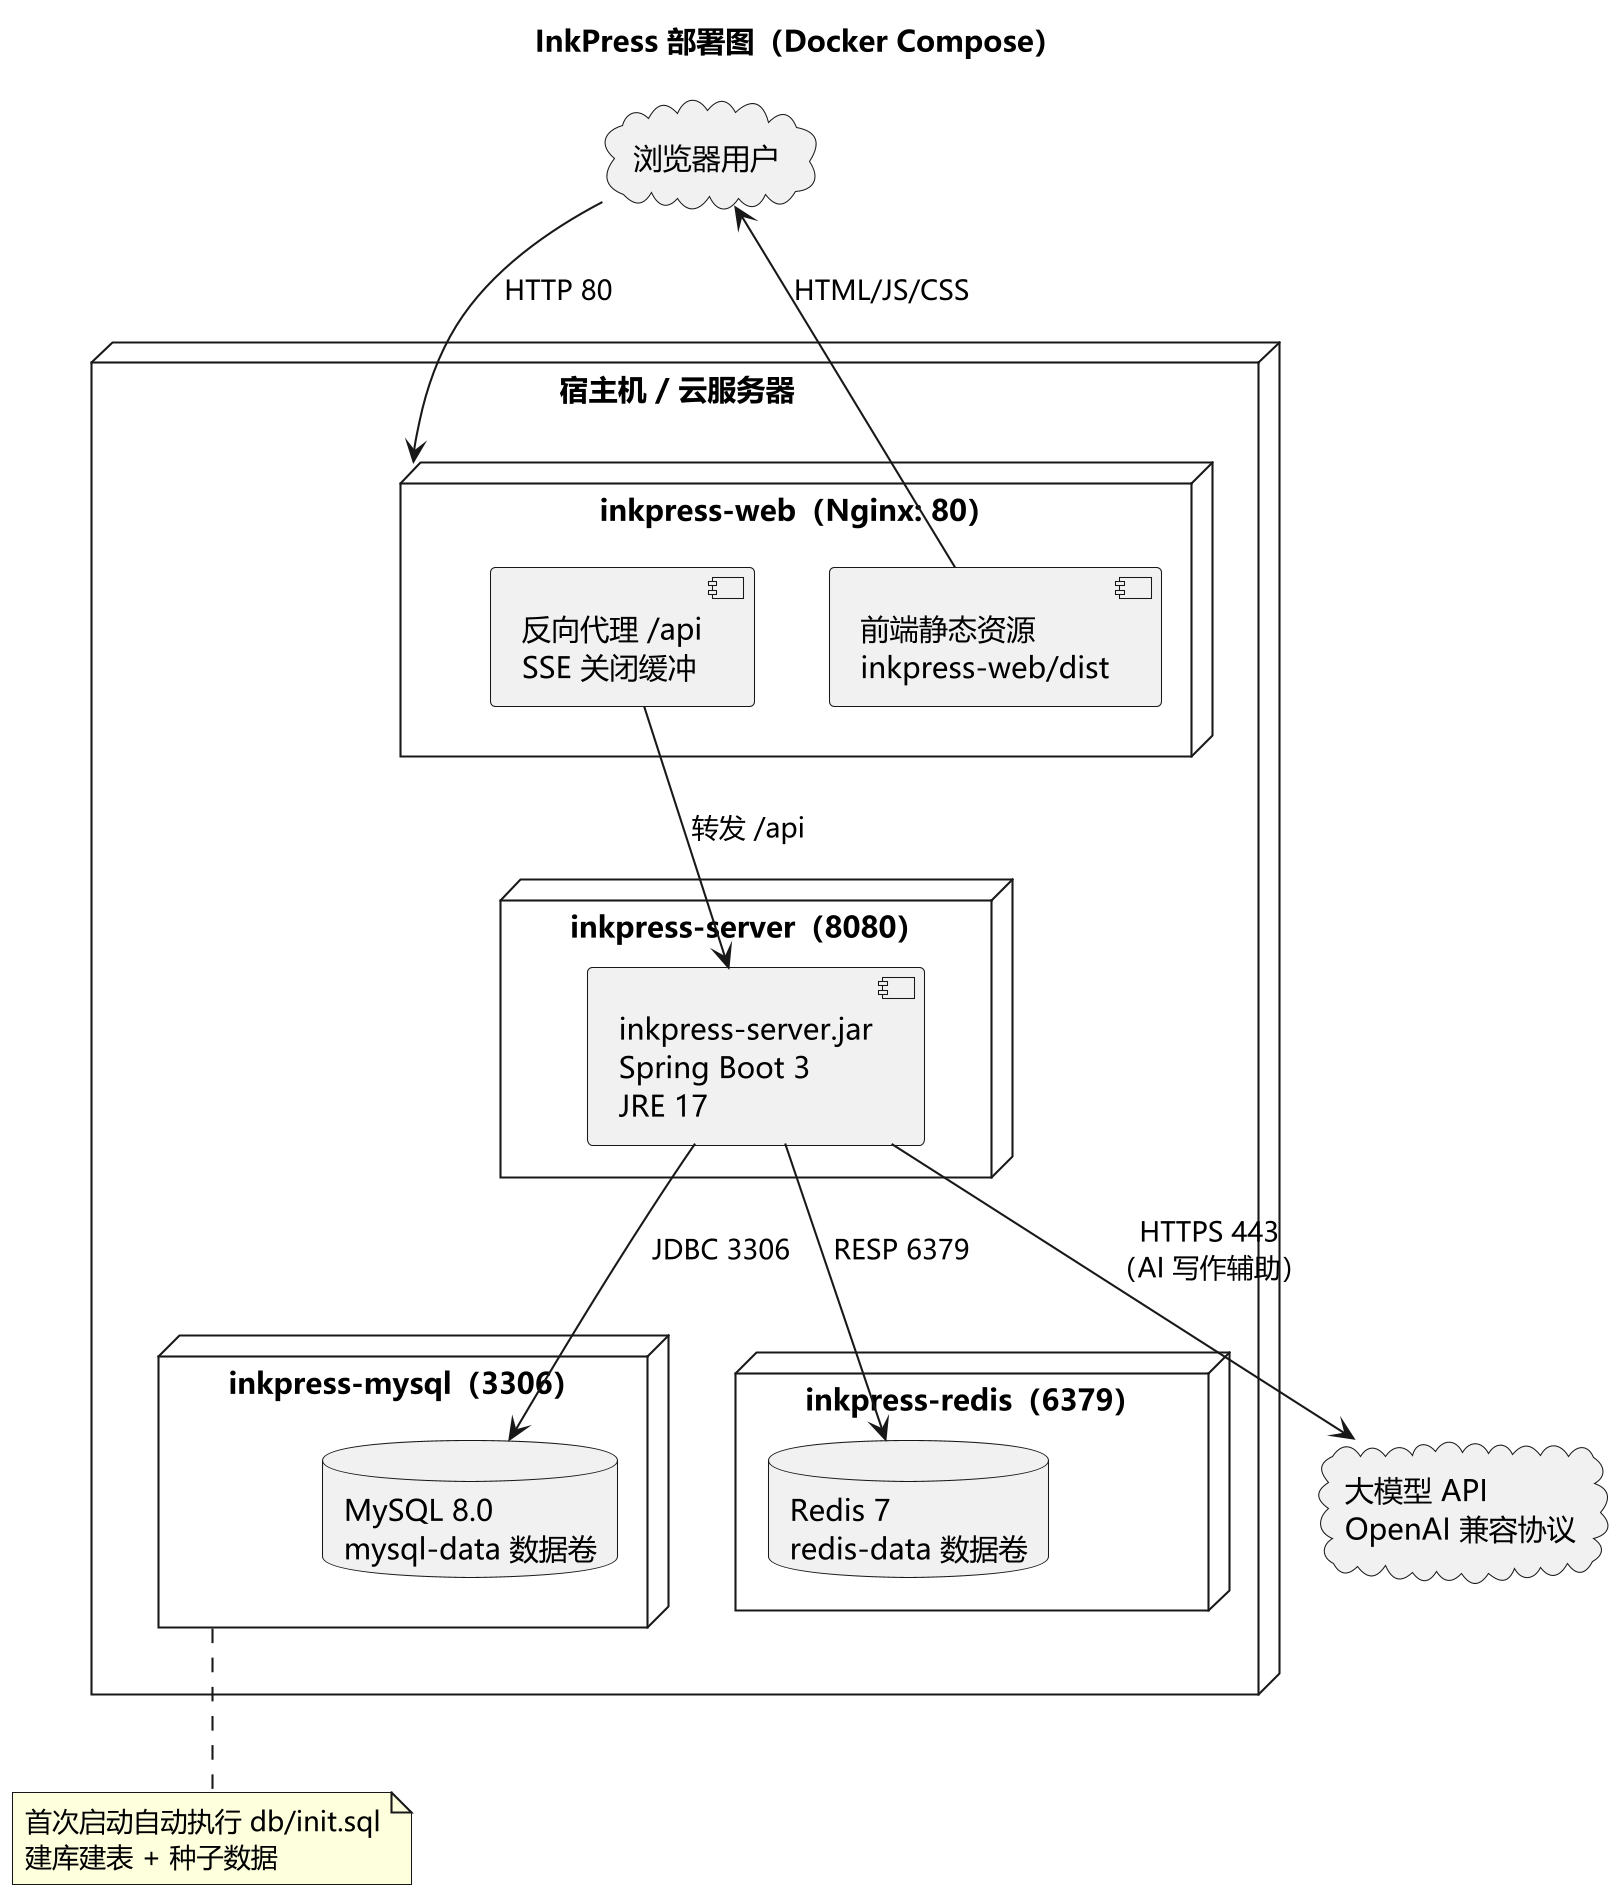
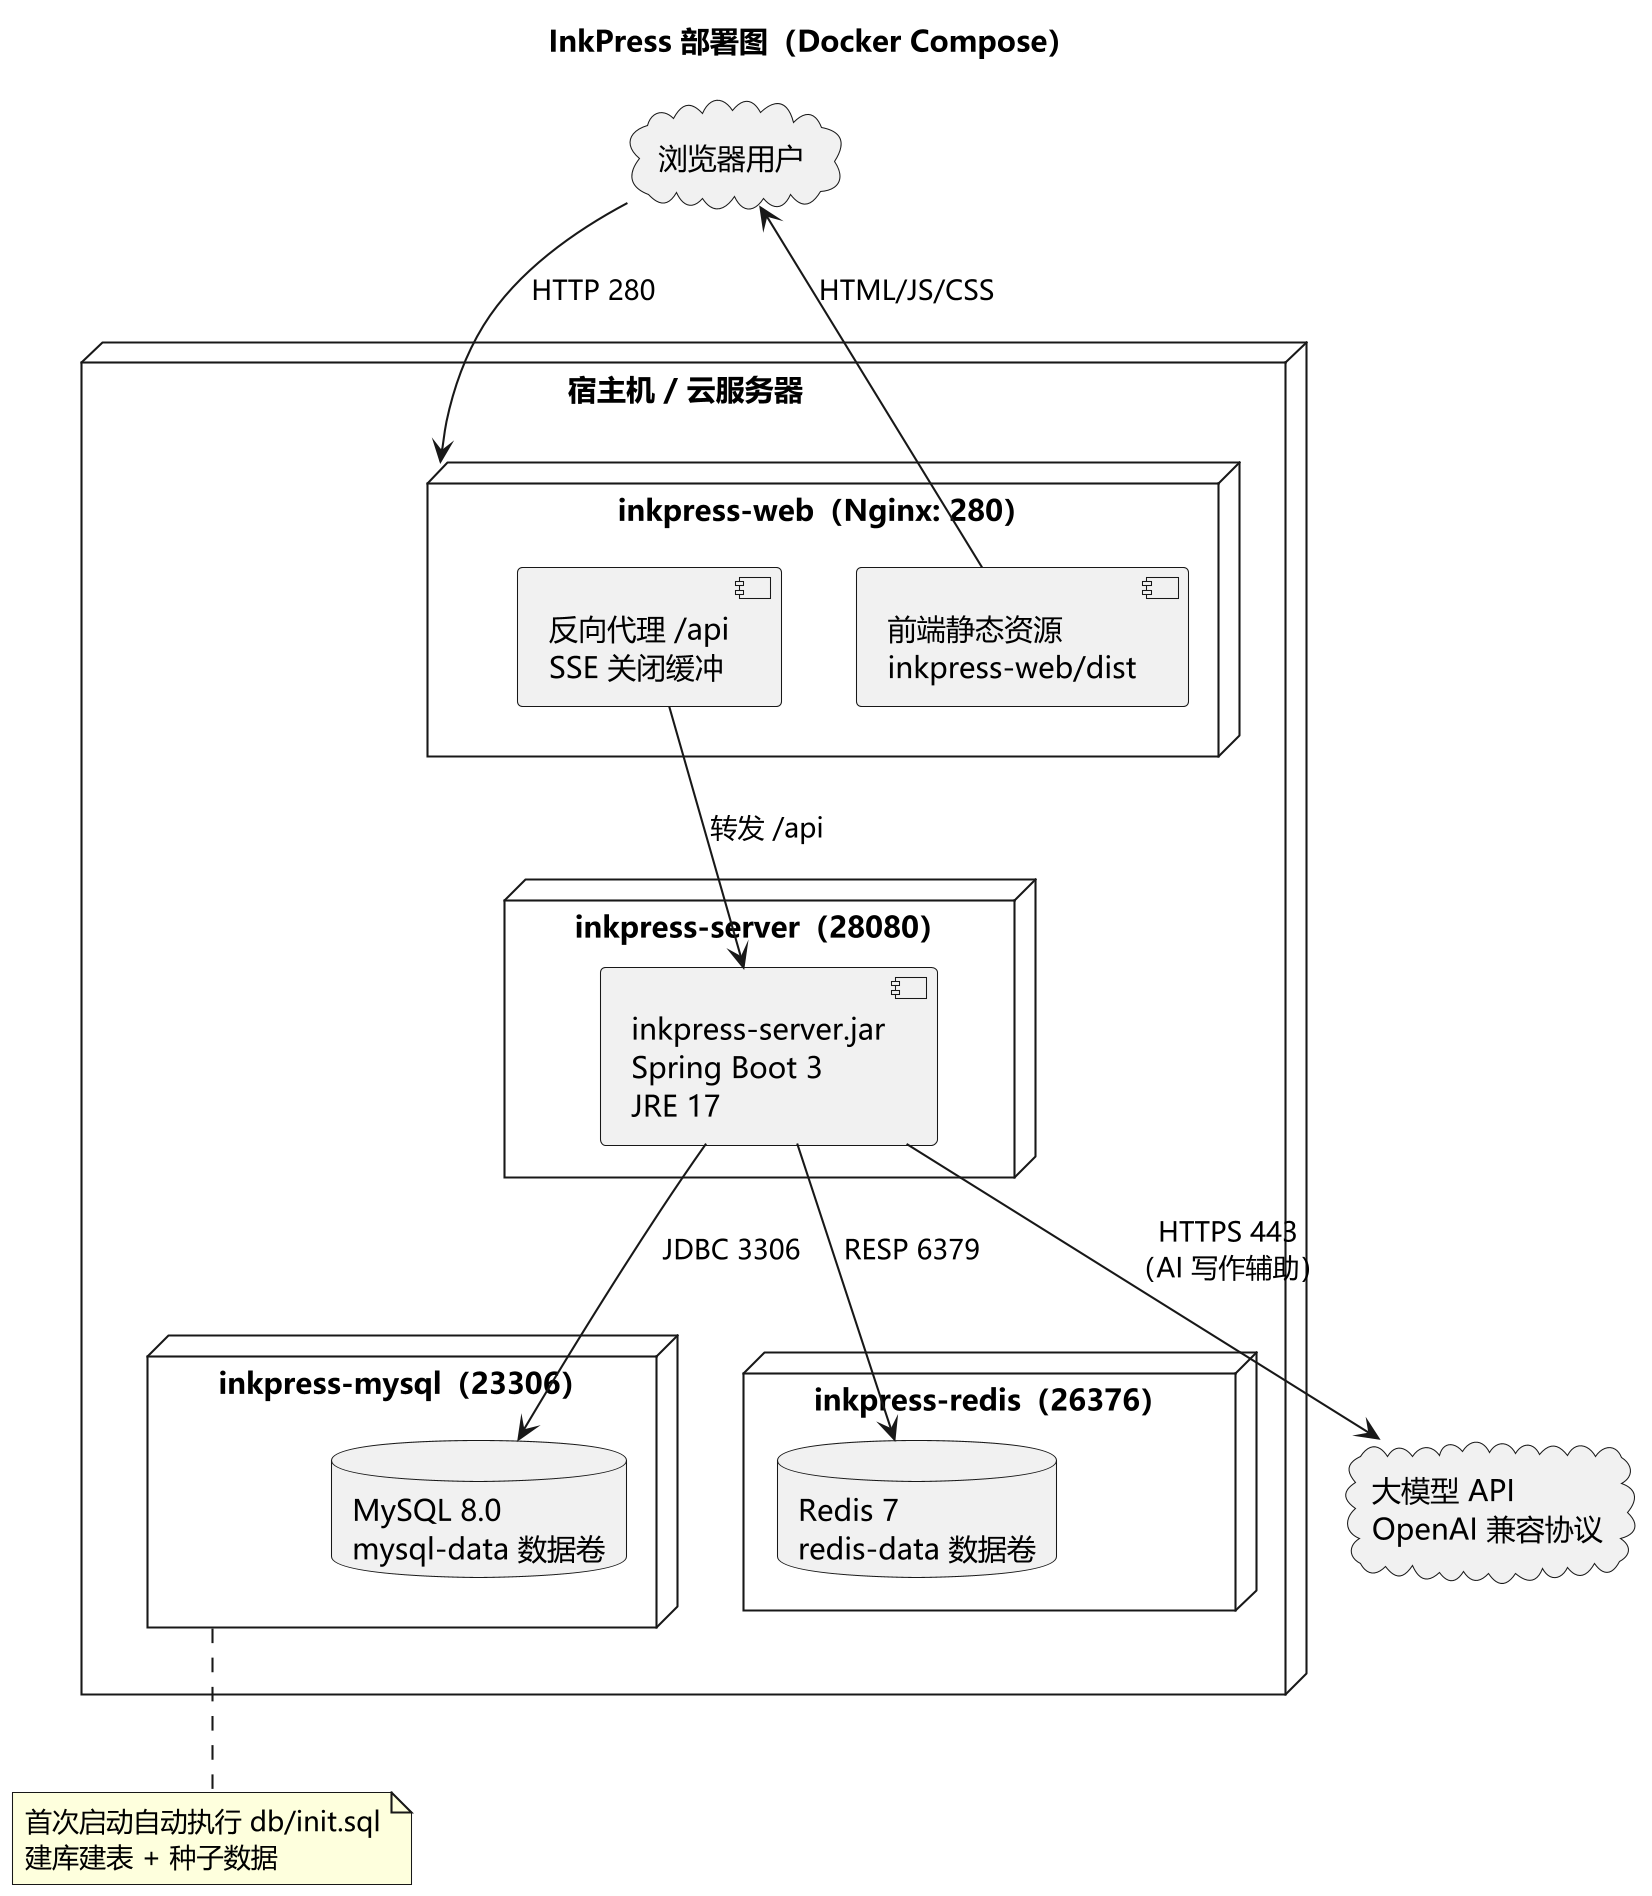
chore: 运行端口统一加前缀 2（8080→28080 等），文档与图纸同步

diff --git a/inkpress-web/vite.config.js b/inkpress-web/vite.config.js
@@ -10,10 +10,10 @@ export default defineConfig({
     }
   },
   server: {
-    port: 5173,
+    port: 25173,
     proxy: {
       '/api': {
-        target: 'http://localhost:8080',
+        target: 'http://localhost:28080',
         changeOrigin: true
       }
     }

diff --git a/docs/部署文档.md b/docs/部署文档.md
@@ -27,13 +27,13 @@ cd inkpress-server
 mvn spring-boot:run
 ```
 
-默认端口 8080。常用配置（application.yml 或环境变量）：
+默认端口 28080。常用配置（application.yml 或环境变量）：
 
 | 配置 | 环境变量 | 默认值 |
 |------|---------|--------|
-| 数据库地址 | `MYSQL_HOST` / `MYSQL_PORT` | localhost / 3306 |
+| 数据库地址 | `MYSQL_HOST` / `MYSQL_PORT` | localhost / 23306 |
 | 数据库账号密码 | `MYSQL_USERNAME` / `MYSQL_PASSWORD` | root / root123 |
-| Redis 地址 | `REDIS_HOST` / `REDIS_PORT` | localhost / 6379 |
+| Redis 地址 | `REDIS_HOST` / `REDIS_PORT` | localhost / 26376 |
 | JWT 密钥 | `JWT_SECRET` | 开发默认值（生产必须覆盖） |
 | AI 服务地址 | `AI_BASE_URL` | 智谱开放平台 |
 | AI API Key | `AI_API_KEY` | 空（未配置时 AI 功能提示不可用） |
@@ -45,7 +45,7 @@ mvn spring-boot:run
 ```bash
 cd inkpress-web
 npm install
-npm run dev      # 开发模式，5173 端口，/api 代理到 8080
+npm run dev      # 开发模式，25173 端口，/api 代理到 28080
 npm run build    # 生产构建，输出 dist/
 ```
 
@@ -62,12 +62,12 @@ docker compose up -d --build
 
 | 容器 | 端口 | 说明 |
 |------|------|------|
-| inkpress-web (Nginx) | 80 | 前端静态资源 + 反向代理 |
-| inkpress-server | 8080 | Spring Boot 后端 |
-| inkpress-mysql | 3306 | 数据库（数据卷持久化） |
-| inkpress-redis | 6379 | 缓存 |
+| inkpress-web (Nginx) | 280 | 前端静态资源 + 反向代理 |
+| inkpress-server | 28080 | Spring Boot 后端 |
+| inkpress-mysql | 23306 | 数据库（宿主机映射，容器内 3306） |
+| inkpress-redis | 26376 | 缓存（宿主机映射，容器内 6379） |
 
-访问 http://localhost 即可使用。接口文档 http://localhost/doc.html 经由 Nginx 代理。
+访问 http://localhost:280 即可使用。接口文档 http://localhost:280/doc.html 经由 Nginx 代理。
 
 **注意**：`docker-compose.yml` 中的 `AI_API_KEY` 与 `JWT_SECRET` 需要替换为真实值后再上线。生产环境建议关闭在线接口文档：在 `application.yml` 中设置 `springdoc.api-docs.enabled: false`（或通过环境变量注入对应配置），避免接口结构对外暴露。
 

diff --git a/README.md b/README.md
@@ -65,7 +65,7 @@ cd inkpress-server
 mvn spring-boot:run
 ```
 
-- 接口文档：http://localhost:8080/doc.html
+- 接口文档：http://localhost:28080/doc.html
 - 首次启动自动创建管理员：`admin / admin123`
 
 ### 3. 启动前端
@@ -76,8 +76,8 @@ npm install
 npm run dev
 ```
 
-- 前台：http://localhost:5173
-- 后台：http://localhost:5173/login
+- 前台：http://localhost:25173
+- 后台：http://localhost:25173/login
 
 ### 4. 配置 AI（可选）
 
@@ -98,7 +98,7 @@ cd inkpress-web && npm run build && cd ..
 docker compose up -d --build
 ```
 
-访问 http://localhost（Nginx 统一入口）。详见 [docs/部署文档.md](docs/部署文档.md)。
+访问 http://localhost:280（Nginx 统一入口）。详见 [docs/部署文档.md](docs/部署文档.md)。
 
 ## 项目结构
 

diff --git a/docs/接口文档.md b/docs/接口文档.md
@@ -1,6 +1,6 @@
 # InkPress 接口文档
 
-完整在线文档（Knife4j / OpenAPI 3）：启动后端后访问 **http://localhost:8080/doc.html**，右上角 Authorize 填入 `Bearer <token>` 可在线调试。
+完整在线文档（Knife4j / OpenAPI 3）：启动后端后访问 **http://localhost:28080/doc.html**，右上角 Authorize 填入 `Bearer <token>` 可在线调试。
 
 所有接口统一返回：
 
